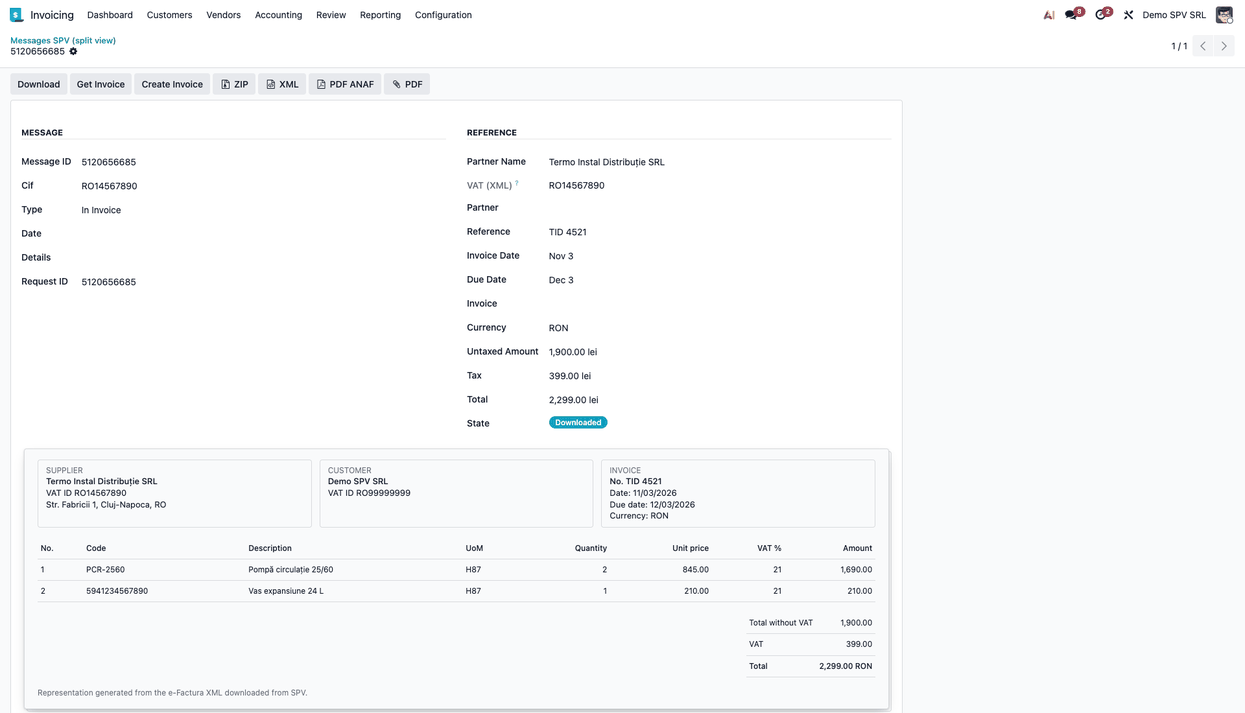
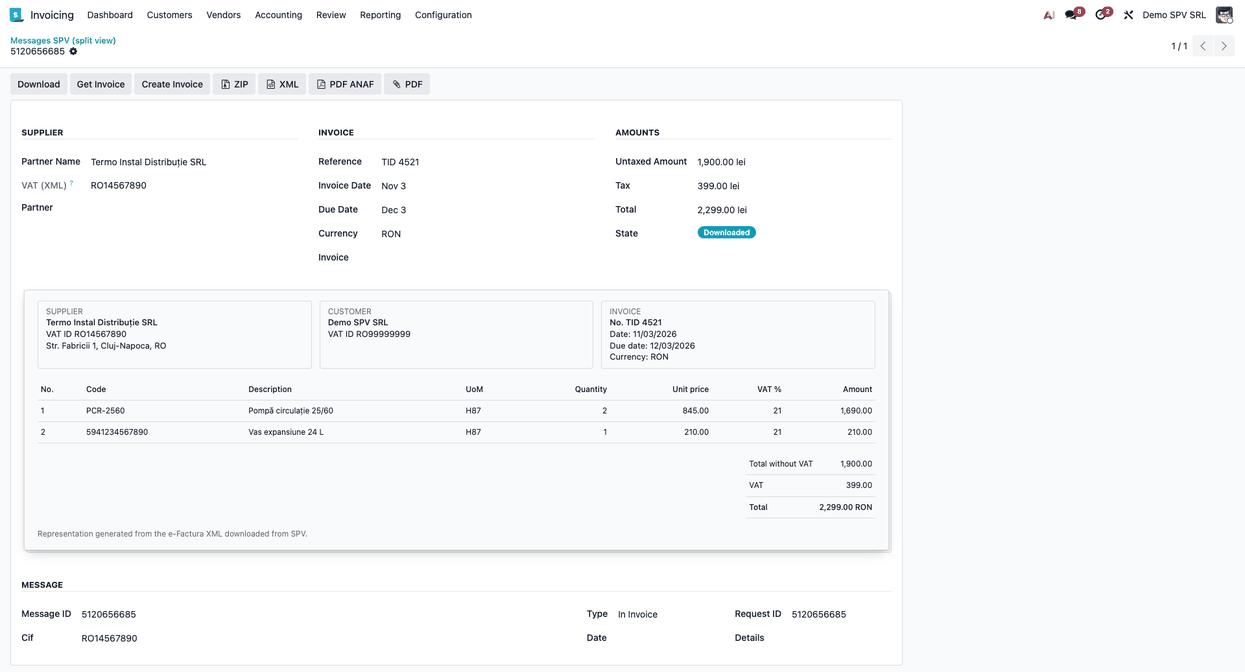
[IMP] l10n_ro_message_spv_side_panel: regroup the fields of the full form
Supplier, Invoice and Amounts are three groups on a row, followed by the document; the
technical data of the message are in the group Message at the bottom. The fields are
moved, so the xpath of other modules on them keep working.

Assisted-by: Claude Opus 5.5

diff --git a/l10n_ro_message_spv_side_panel/tests/test_message_spv_side_panel.py b/l10n_ro_message_spv_side_panel/tests/test_message_spv_side_panel.py
@@ -5,6 +5,8 @@
 import io
 import zipfile
 
+from lxml import etree
+
 from odoo.tests import TransactionCase, tagged
 
 from odoo.addons.l10n_ro_message_spv_side_panel import uninstall_hook
@@ -195,3 +197,12 @@ class TestMessageSpvSidePanel(TransactionCase):
         self.assertIn("spv_document_html", arch)
         self.assertNotIn("<notebook", arch.split("spv_document_html")[1])
         self.assertIn("spv_party_vat", arch)
+
+    def test_full_form_groups_the_fields(self):
+        arch = self.env["l10n.ro.message.spv"].get_view(view_type="form")["arch"]
+        root = etree.fromstring(arch)
+        groups = {g.get("name"): {f.get("name") for f in g.iter("field")} for g in root.iter("group") if g.get("name")}
+        self.assertLessEqual({"partner_name", "spv_party_vat", "partner_id"}, groups["spv_supplier"])
+        self.assertLessEqual({"ref", "invoice_date", "invoice_date_due", "invoice_id"}, groups["spv_invoice"])
+        self.assertLessEqual({"amount_untaxed", "amount_tax", "amount", "state"}, groups["spv_amounts"])
+        self.assertLessEqual({"name", "message_type", "request_id", "cif"}, groups["spv_message"])

diff --git a/l10n_ro_message_spv_side_panel/readme/USAGE.md b/l10n_ro_message_spv_side_panel/readme/USAGE.md
@@ -30,7 +30,8 @@
    ![The list with the side panel](static/description/en/06_lista_cu_panou.png)
 
 5. The arrow-out button of the panel opens the full form: it has the VAT ID read from the XML and
-   the same document, with the lines, under the data of the message.
+   the same document, with the lines. The fields are in three groups on a row (*Supplier*, *Invoice* and
+   *Amounts*), the document is under them and the technical data of the message are at the bottom.
 
    ![The full form with the document](static/description/en/07_formular_complet.png)
 

diff --git a/l10n_ro_message_spv_side_panel/readme/HISTORY.md b/l10n_ro_message_spv_side_panel/readme/HISTORY.md
@@ -6,6 +6,9 @@
 - The document looks like a sheet of paper (border and shadow), to show that it is the invoice as
   received, and the supplier, the customer and the data of the invoice are three boxes on a row
   (fewer on a narrow panel).
+- The fields of the full form are regrouped in three groups on a row (*Supplier*, *Invoice* and
+  *Amounts*), followed by the document; the technical data of the message (message id, type,
+  request id, VAT number, date, details) are in the group *Message* at the bottom.
 
 ## 19.0.1.1.0 (2026-11-13)
 
